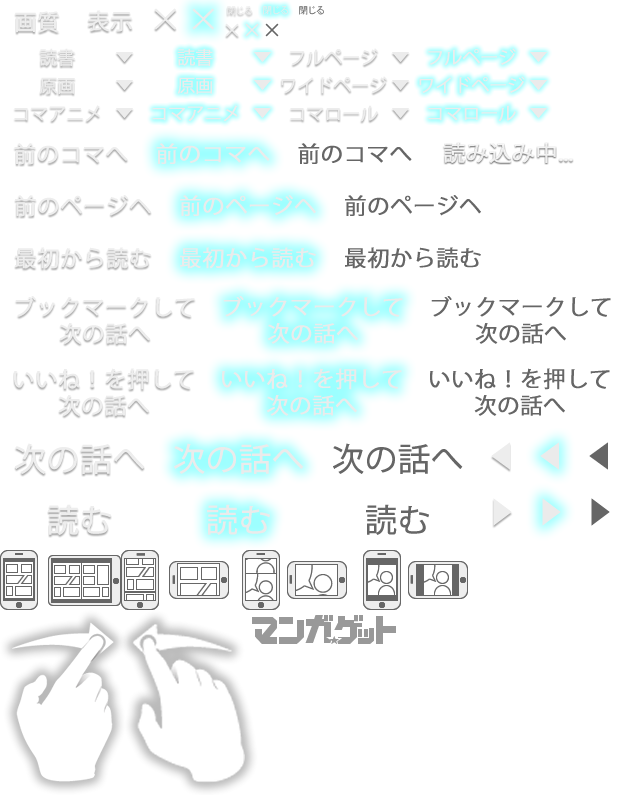
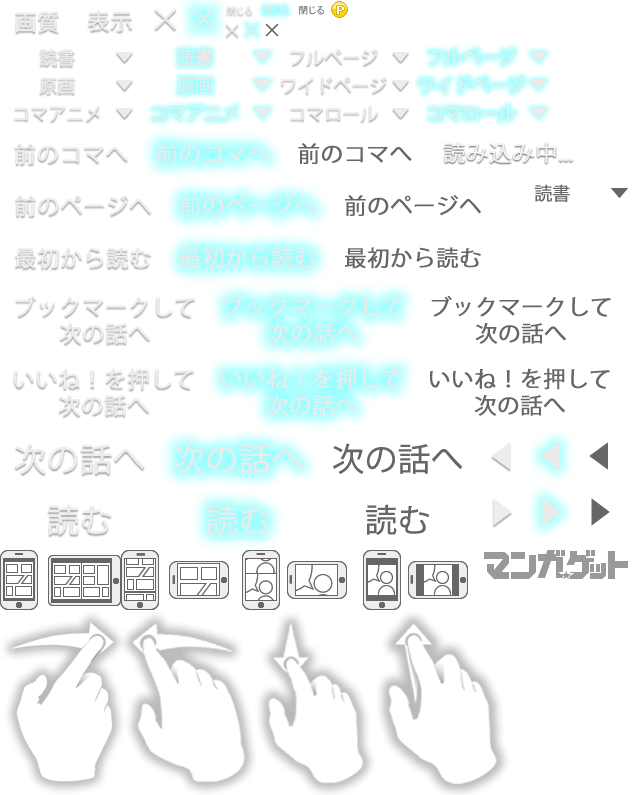
new sprite

diff --git a/src/main/resources/layout.480.css b/src/main/resources/layout.480.css
@@ -23,8 +23,8 @@
 	vertical-align:middle;
 }
 .sprite span {
-	background-image: url(ja.480.png?v=11);
-	background-size: 624px 795px;
+	background-image: url(ja.480.png?v=12);
+	background-size: 633px 795px;
 	background-repeat:no-repeat;
 	text-indent:-9999px;
 	overflow:hidden;
@@ -50,9 +50,9 @@
 #img_quality span				{background-position: 0 0;width: 73px;height: 44px;margin-top: 2px;}
 
 #change_reading span			{background-position: 0 -44px;width: 138px;height: 28px;}
-#change_reading.disable span			{opacity: 0.5;}
+#change_reading.disable span	{background-position: -495px -180px;width: 138px;height: 28px;}
 #change_reading:hover span,
-#change_reading.active span	{background-position: -138px -44px;width: 138px;height: 28px;}
+#change_reading.active span		{background-position: -138px -44px;width: 138px;height: 28px;}
 
 #change_original span			{background-position: 0 -72px;width: 138px;height: 28px;}
 #change_original:hover span,
@@ -175,6 +175,8 @@
 /*フリック方向指示*/
 #swipe_right span			{background-position: 0 -610px;width: 126px;height: 185px;}
 #swipe_left span			{background-position: -126px -610px;width: 126px;height: 185px;}
+#swipe_down span			{background-position: -252px -610px;width: 126px;height: 185px;}
+#swipe_up span				{background-position: -378px -610px;width: 126px;height: 185px;}
 
 /*モード/設定・メニュー/*/
 #menu_top h1,#menu_top h2 {
@@ -238,7 +240,11 @@
 }
 
 /*ロゴ*/
-#logo_mangaget span			{background-position: -252px -615px;width: 144px;height: 29px;}
+#logo_mangaget span			{background-position: -484px -550px;width: 144px;height: 29px;}
+
+/*プレミアムアイコン*/
+#icon_premium_user span		{background-position: -330px 0;width: 19px;height: 19px;}
+
 
 #menu_tab_close {background-position: -513px -38px;width: 69px;height: 35px; cursor:pointer;}
 #menu_tab_close:hover, #menu_tab_close.active {background-position: -583px -38px;width: 69px;height: 35px; cursor:pointer;}

diff --git a/src/main/resources/layout.320.css b/src/main/resources/layout.320.css
@@ -27,8 +27,8 @@
 	vertical-align:middle;
 }
 .sprite span {
-	background-image: url(ja.320.png?v=11);
-	background-size: 414px 548px;
+	background-image: url(ja.320.png?v=12);
+	background-size: 414px 549px;
 	background-repeat:no-repeat;
 	text-indent:-9999px;
 	overflow:hidden;
@@ -54,7 +54,7 @@
 #img_quality span				{background-position:-49px 0;width: 49px;height: 29px;margin-top: 4px;}
 
 #change_reading span			{background-position: 0 -29px;width: 70px;height: 21px;}
-#change_reading.disable span			{opacity: 0.5;}
+#change_reading.disable span	{background-position: -327px -126px;width: 70px;height: 21px;}
 #change_reading:hover span,
 #change_reading.active span		{background-position: -103px -29px;width: 70px;height: 21px;}
 
@@ -179,7 +179,8 @@
 /*フリック方向指示*/
 #swipe_right span			{background-position: 0 -410px;width: 94px;height: 138px;}
 #swipe_left span			{background-position: -94px -410px;width: 94px;height: 138px;}
-
+#swipe_down span			{background-position: -188px -410px;width: 94px;height: 138px;}
+#swipe_up span				{background-position: -282px -410px;width: 94px;height: 138px;}
 
 /*モード/設定・メニュー/*/
 #menu_top h1,#menu_top h2 {
@@ -244,7 +245,10 @@
 }
 
 /*ロゴ*/
-#logo_mangaget span			{background-position: -188px -415px;width: 92px;height: 20px;}
+#logo_mangaget span			{background-position: -324px -370px;width: 92px;height: 20px;}
+
+/*プレミアムアイコン*/
+#icon_premium_user span		{background-position: -333px 0;width: 14px;height: 14px;}
 
 #menu_tab                         {background-position: -342px -22px;width: 45px;height: 15px; cursor:pointer;}
 #menu_tab:hover, #menu_tab.active {background-position: -342px -22px;width: 45px;height: 15px; cursor:pointer;}

diff --git a/src/main/resources/ja.pc.css b/src/main/resources/ja.pc.css
@@ -142,7 +142,7 @@
 	vertical-align:middle;
 }
 .sprite span {
-	background-image: url(ja.pc.png?v=6);
+	background-image: url(ja.pc.png?v=7);
 	background-size: 160px 112px; 
 	background-repeat:no-repeat; 
 	text-indent:-9999px;
@@ -191,6 +191,12 @@
 
 #bound_right     		  		{width: 138px;height: 88px; cursor: pointer;float:right;}
 #bound_right span				{background-position: -60px -56px; width: 100px; height: 56px;}
+
+#bound_up						{width: 88px;height: 138px; cursor: pointer;}
+#bound_up span					{background-position: -160px 0; width: 56px; height: 100px;}
+
+#bound_down						{width: 88px;height: 138px; cursor: pointer;}
+#bound_down span				{background-position: -216px 0; width: 56px; height: 100px;}
 
 /*押下時のアクション*/
 #menu_first,#menu_prev,#menu_next,#menu_fullscreen,#close_fullscreen {
